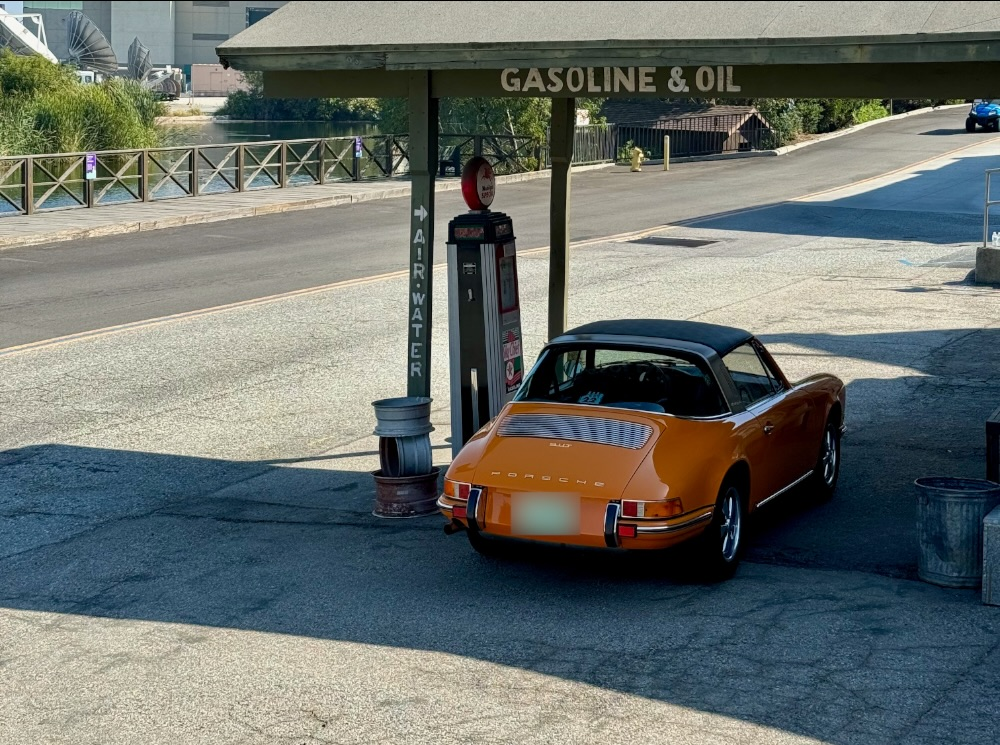
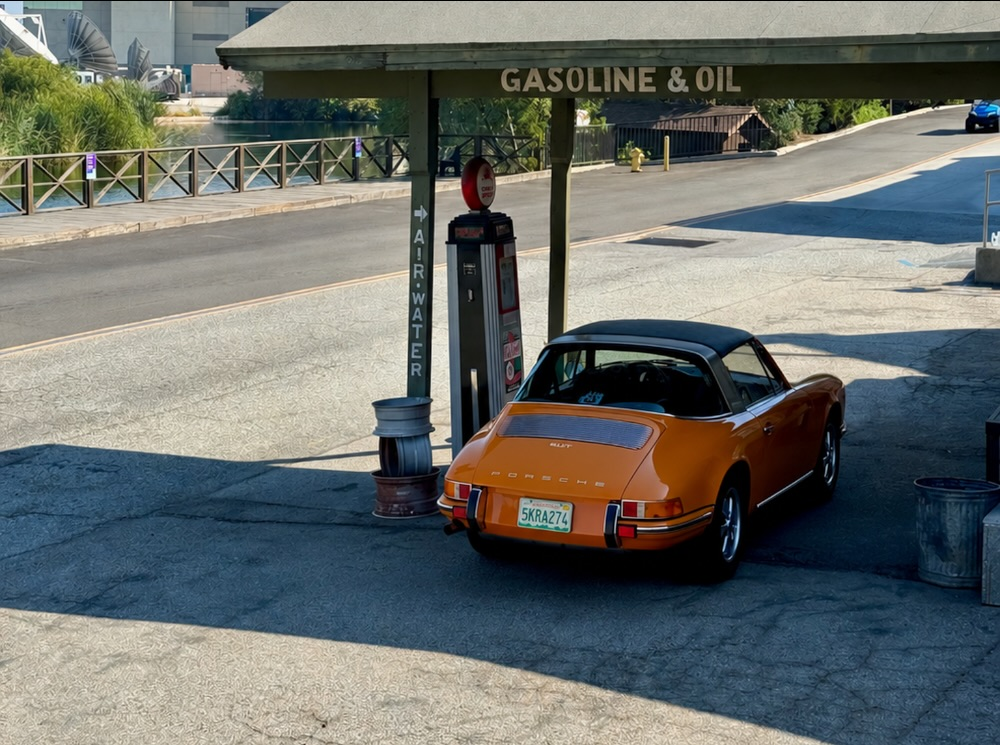
Home on phones: the user's anonymized vintage Targa photo, and the beach lineup as a fourth story photo (10/29)
Claude-Session: https://claude.ai/code/session_01K3A77gwvrJRXsPUFPjJmej

diff --git a/index.html b/index.html
@@ -112,8 +112,9 @@
   <div class="hero-story" aria-hidden="true">
     <img class="on" src="/assets/people/story-line.jpg?v=dc23b158a4" alt="" loading="lazy" style="object-position:60% 70%">
     <img src="/assets/people/story-ocean.jpg?v=5adf32634d" alt="" loading="lazy" style="object-position:50% 85%">
-    <img src="/assets/people/story-vintage.jpg?v=47607b5587" alt="" loading="lazy" style="object-position:55% 80%">
-    <div class="bars"><i class="on"></i><i></i><i></i></div>
+    <img src="/assets/people/story-vintage.jpg?v=44c25999e2" alt="" loading="lazy" style="object-position:55% 80%">
+    <img src="/assets/people/story-beach.jpg?v=0ed8e31f9b" alt="" loading="lazy" style="object-position:50% 75%">
+    <div class="bars"><i class="on"></i><i></i><i></i><i></i></div>
   </div>
   <div class="near-chip" id="near-chip" hidden><svg viewBox="0 0 24 24" aria-hidden="true"><path d="M12 21s-7-6.2-7-11.5A7 7 0 0 1 19 9.5C19 14.8 12 21 12 21z" fill="none" stroke="currentColor" stroke-width="2.2"/><circle cx="12" cy="9.5" r="2.4" fill="currentColor"/></svg><span>Near <strong id="near-name">you</strong></span><span aria-hidden="true">·</span><button type="button" id="near-change">Change</button></div>
   <div class="hero-copy">
